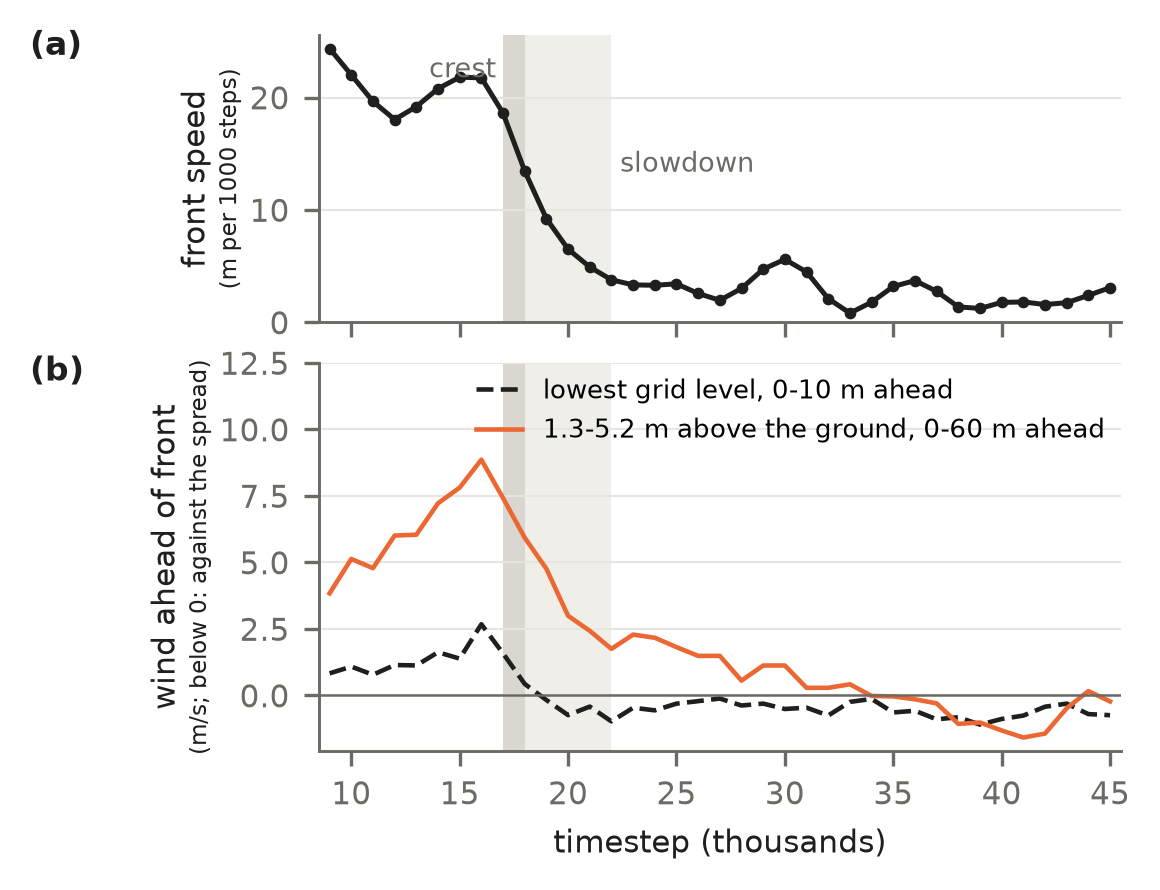
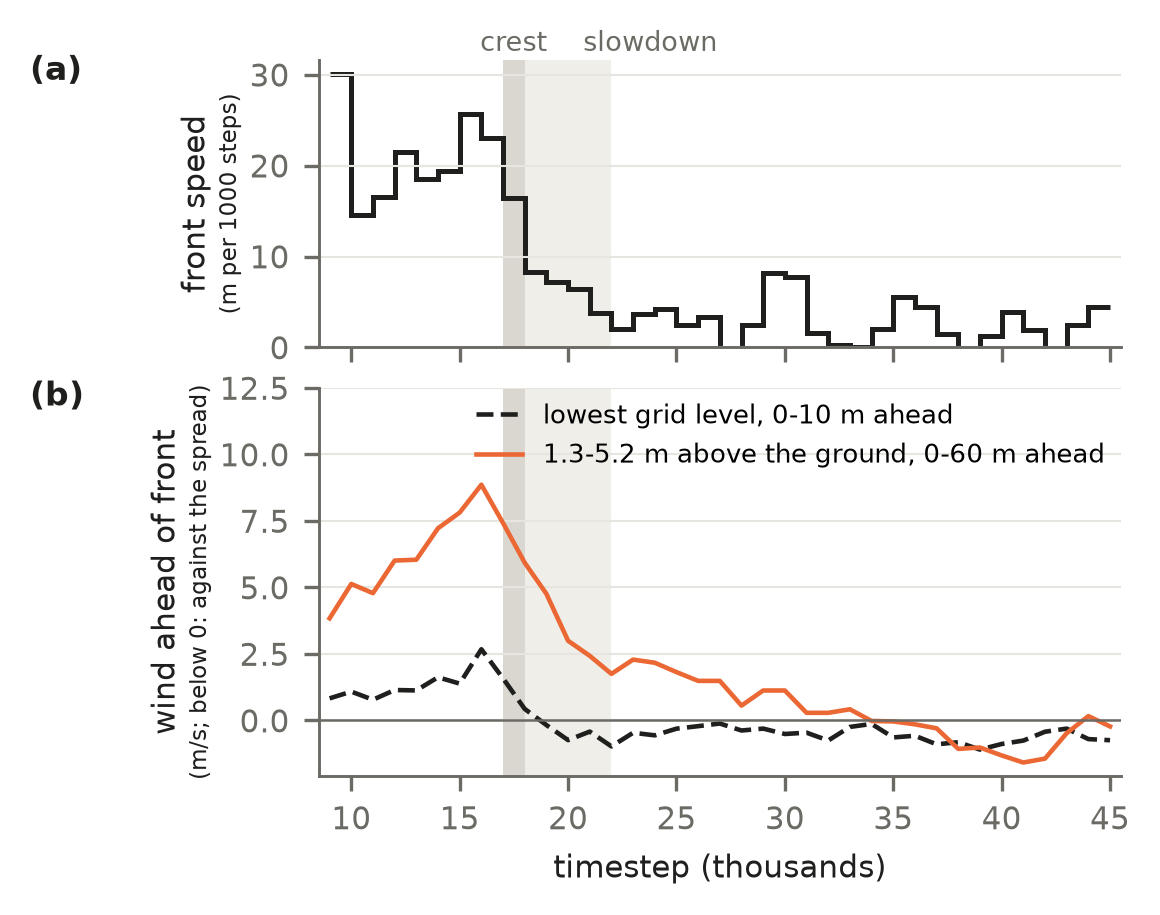
Case Study 2 evidence figure: front speed unsmoothed (between consecutive saved timesteps), so the drop starts at the crest band, not 2,000 steps early; crest and slowdown labels above the axes

diff --git a/bench/PacificVis/cs2-wildfire/Test4/scripts/fig_evidence.py b/bench/PacificVis/cs2-wildfire/Test4/scripts/fig_evidence.py
@@ -6,7 +6,7 @@
 HEIGHTS.csv (level, height_m) gives each grid level's height above the lowest level,
 over the box (scripts/box_heights.py). All wind values are full resolution, over the
 burning strip's rows (|y| <= 50 m), weighted by grid points.
-(a) front speed (slope of the front over +-2000 steps).
+(a) front speed between consecutive saved timesteps (1000 steps), unsmoothed.
 (b) the wind along the spread ahead of the front: the lowest grid level within 10 m of
     the front, and 1.3-5.2 m above the ground (levels 1-4) within 60 m of it.
 Shaded: the slowdown. Band: the 1000 steps in which the full-resolution front crosses
@@ -69,10 +69,16 @@ for ax in (a1, a3):
     ax.grid(axis="y", color=GRID, lw=0.5)
     ax.spines[["top", "right"]].set_visible(False)
 
-sp = [np.polyfit(L[np.abs(L - c) <= HALF] / 1000, X[np.abs(L - c) <= HALF], 1)[0] for c in labs]
-a1.plot(t, sp, color=INK, lw=1.2, marker="o", ms=1.8)
-a1.text(ca / 1000 - 0.3, max(sp) * 0.97, "crest", color=MUTED, fontsize=6.5, va="top", ha="right")
-a1.text(SLOW[1] / 1000 + 0.4, max(sp) * 0.55, "slowdown", color=MUTED, fontsize=6.5)
+# Speed between consecutive saved timesteps, drawn across the 1000 steps it measures
+# (no smoothing: a fitted slope would start the drop before the crest).
+iv = [(a, b) for a, b in zip(labs, labs[1:])]
+sp = [(fr[b] - fr[a]) / (b - a) * 1000 for a, b in iv]
+a1.stairs(sp, [iv[0][0] / 1000] + [b / 1000 for _, b in iv], color=INK, lw=1.2, baseline=None)
+top = a1.get_xaxis_transform()
+a1.text((ca + cb_) / 2000, 1.01, "crest", transform=top, color=MUTED, fontsize=6.5,
+        ha="center", va="bottom")
+a1.text((SLOW[0] + SLOW[1]) / 2000 + 1.2, 1.01, "slowdown", transform=top, color=MUTED,
+        fontsize=6.5, ha="left", va="bottom")
 ylab(a1, "front speed", "(m per 1000 steps)")
 a1.set_ylim(bottom=0)
 
